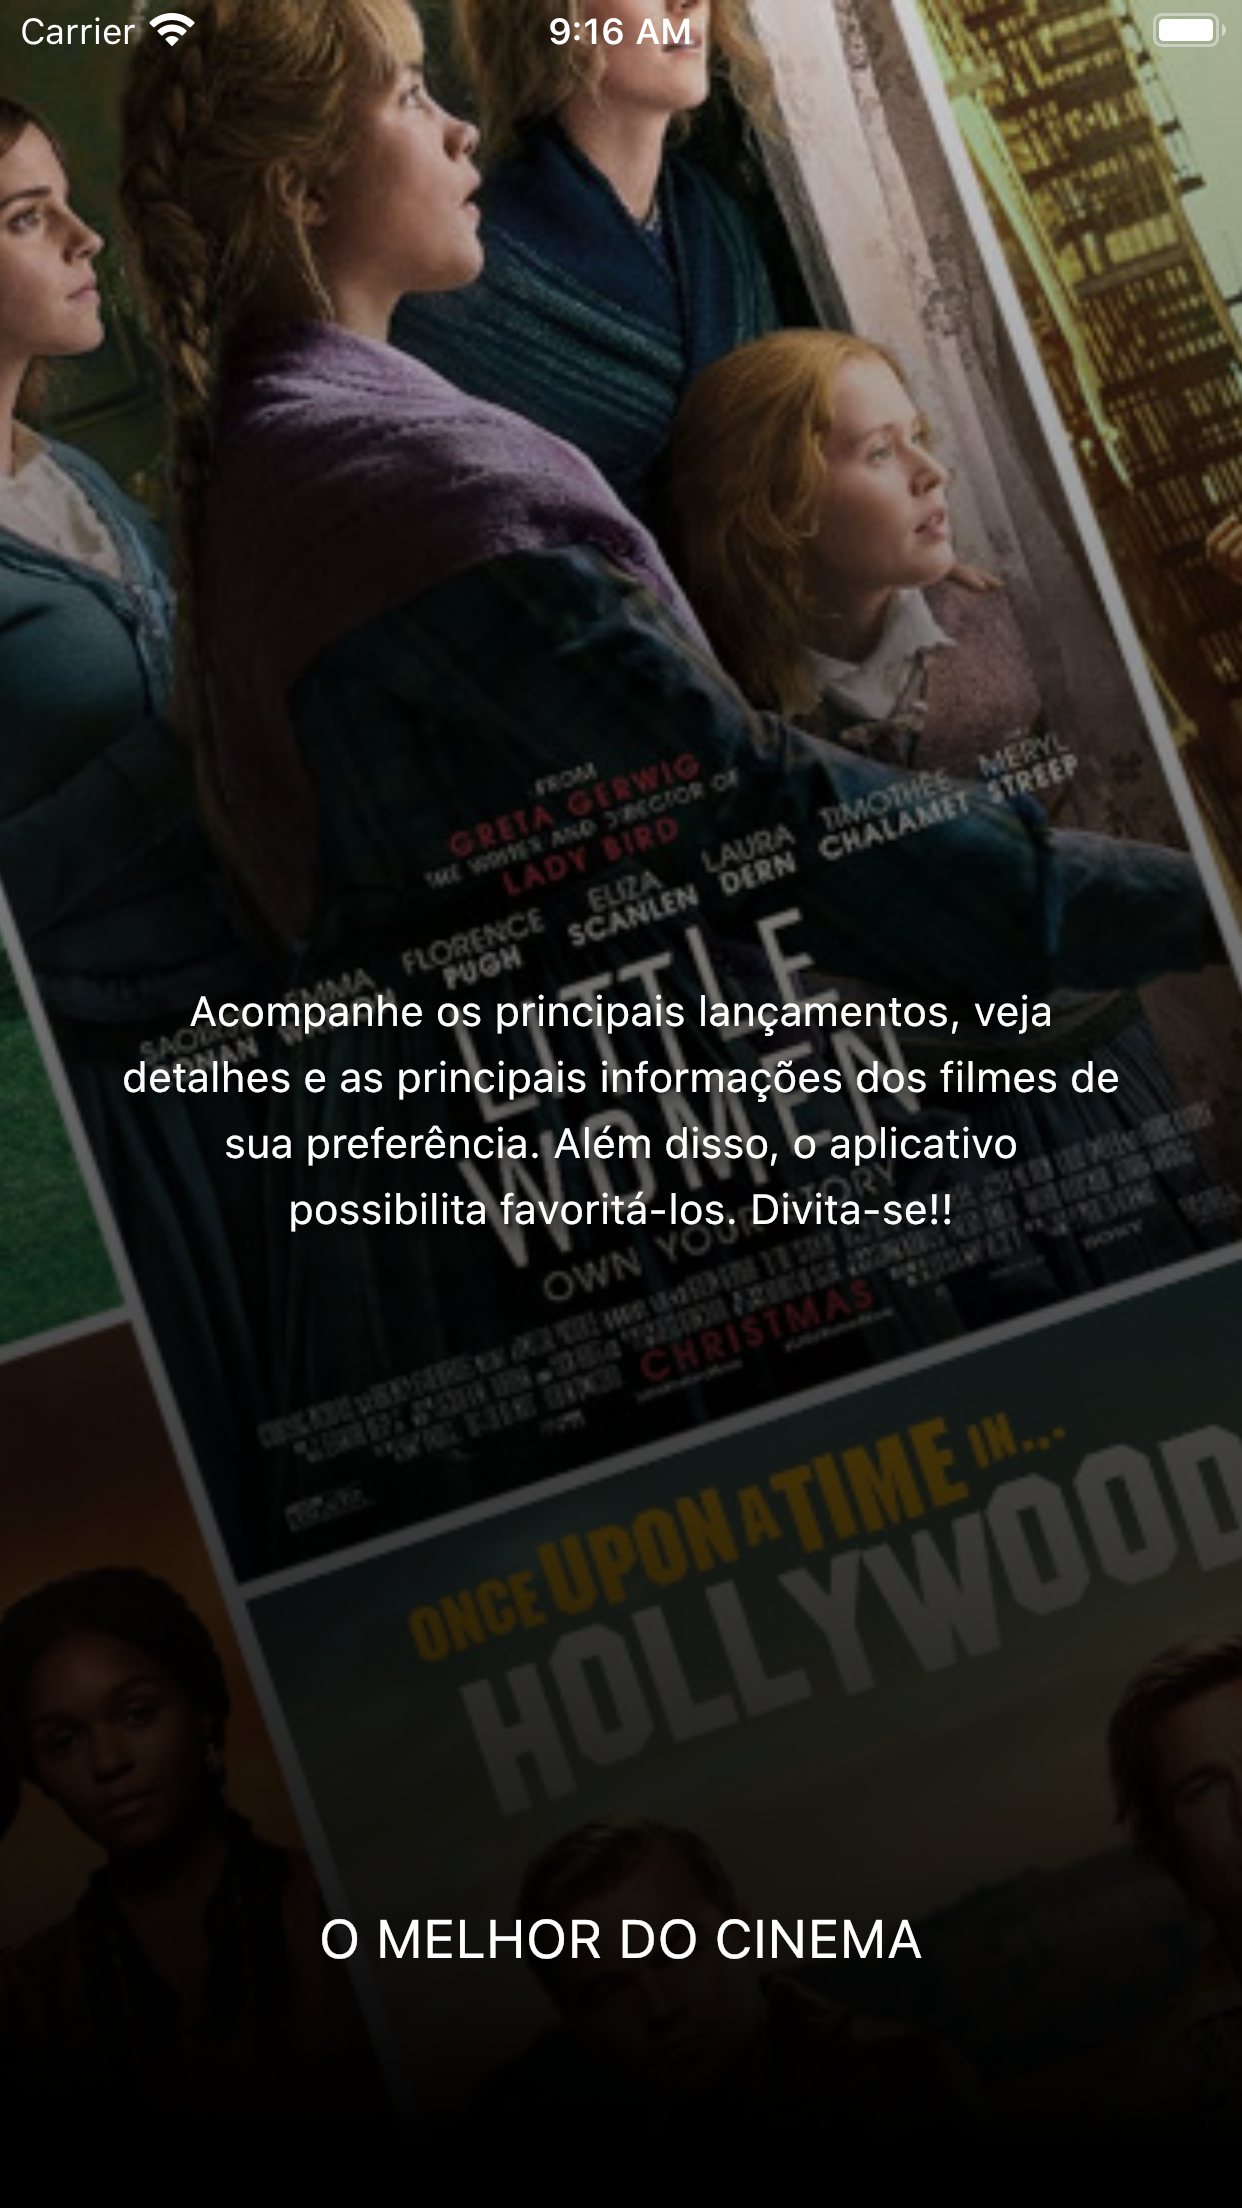
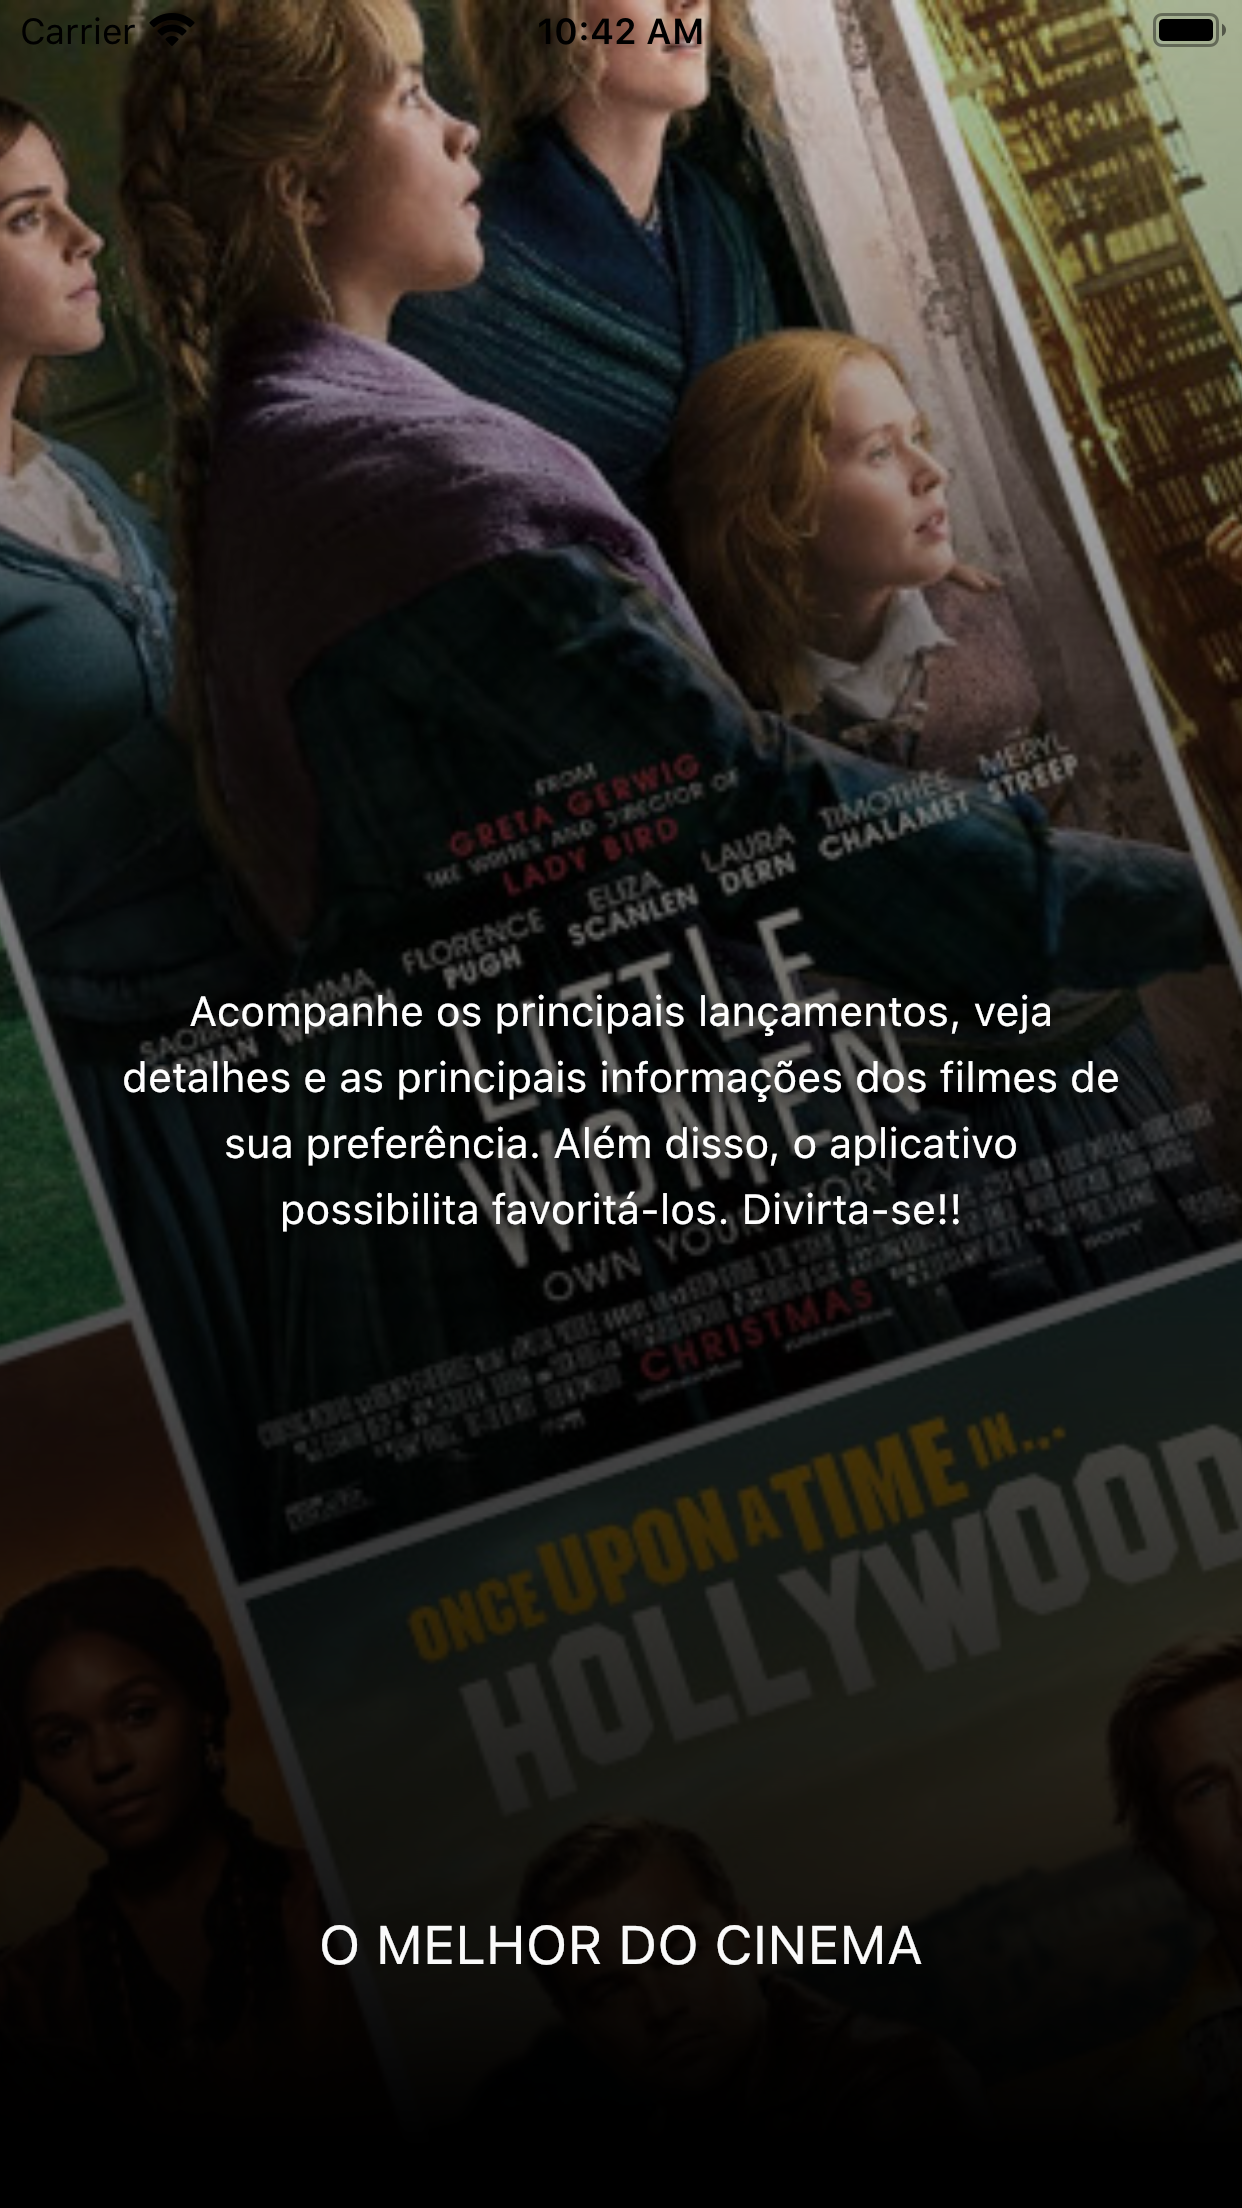
Correção no arquivo util de uma grafia de portugues

diff --git a/lib/library/util.dart b/lib/library/util.dart
@@ -52,7 +52,7 @@ class Util {
   }
 
   String get introSplash {
-    return 'Acompanhe os principais lançamentos, veja detalhes e as principais informações dos filmes de sua preferência. Além disso, o aplicativo possibilita favoritá-los. Divita-se!!';
+    return 'Acompanhe os principais lançamentos, veja detalhes e as principais informações dos filmes de sua preferência. Além disso, o aplicativo possibilita favoritá-los. Divirta-se!!';
   }
 
   String get nameButtonSplash {
